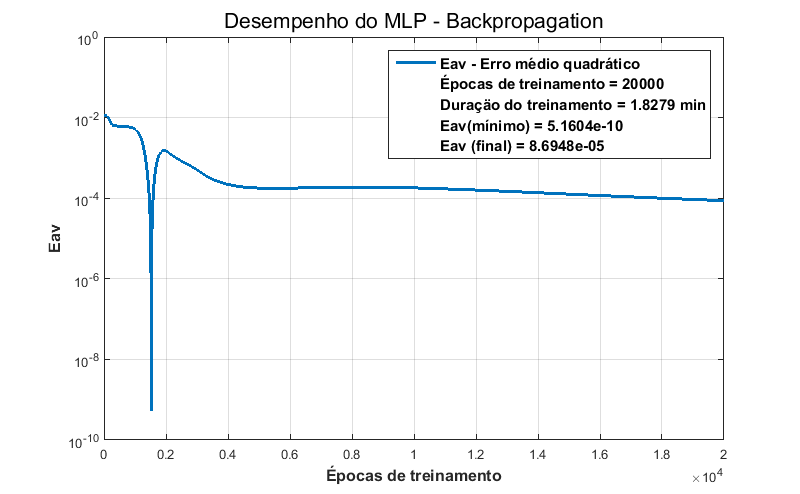
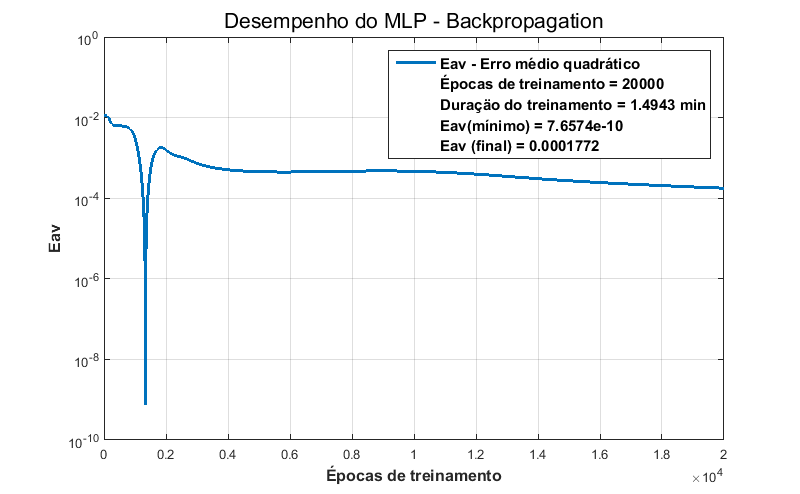
img

diff --git a/05-aprendizado_online_batch/README.md b/05-aprendizado_online_batch/README.md
@@ -49,8 +49,8 @@ Para a comparação, os algoritmos foram executados 3 vezes cadas, constando aqu
 
 |Original  | Online |
 |--|--|
-|![enter image description here](https://github.com/JoseRaimundo/mestrado_ia/blob/master/05-aprendizado_online_batch/img/mlp_original.png?raw=true)  | ![enter image description here](https://github.com/JoseRaimundo/mestrado_ia/blob/master/05-aprendizado_online_batch/img/mlp_online_treino.png?raw=true) |
-||1. PARÂMETROS DO PROJETO<br>Exemplos de Treinamento: 51<br>Exemplos de Teste: 5000<br>Taxa de aprendizado: 0.01<br>Pesos, valor médio inicial: 0.07<br>2. CONFIGURACÄO DA REDE NEURAL<br>   Número de Neurönios por Camada<br>   Entrada:      2<br>   Escondida: 15<br>   Saída:          1<br>3. TREINAMENTO<br>   Número de épocas: 20000<br>   Erro médio quadrático: 8.6948e-05<br>   Duraçäo do Treinamento: 1.8279 min<br>4. TESTE<br>   Erro absoluto máximo: 0.088139<br>   Erro médio quadrático: 0.00025574<br>   Duraçäo do Teste: 0.062 s<br>|
+|![enter image description here](https://github.com/JoseRaimundo/mestrado_ia/blob/master/05-aprendizado_online_batch/img/mlp_original.png?raw=true)  | ![enter image description here](https://github.com/JoseRaimundo/mestrado_ia/blob/master/05-aprendizado_online_batch/img/mlp_online.png?raw=true) |
+|1. PARÂMETROS DO PROJETO<br>   Exemplos de Treinamento: 51<br>   Exemplos de Teste: 5000<br>   Taxa de aprendizado: 0.01<br>   Pesos, valor médio inicial: 0.07<br>2. CONFIGURACÄO DA REDE EURAL <br>  Número de Neurönios por Camada<br>   Entrada:      2<br>   Escondida: 15<br>   Saída:          1<br>3. TREINAMENTO<br>   Número de épocas: 20000<br>   Erro médio quadrático: 0.0006475<br>   Duraçäo do Treinamento: 1.7415 min<br>4. TESTE<br>   Erro absoluto máximo: 0.17034<br>   Erro médio quadrático: 0.00045172<br> Duraçäo do Teste: 0.05 s<br> | 1. PARÄMETROS DO PROJETO<br>   Exemplos de Treinamento: 51<br>   Exemplos de Teste: 5000<br>   Taxa de aprendizado: 0.01<br>   Pesos, valor médio inicial: 0.07<br>2. CONFIGURACÄO DA REDE NEURAL<br>   Número de Neurönios por Camada<br>   Entrada:      2<br>   Escondida: 15<br>   Saída:          1<br>3. TREINAMENTO<br>   Número de épocas: 20000<br>   Erro médio quadrático: 0.0001772<br>   Duraçäo do Treinamento: 1.4943 min<br>4. TESTE<br>   Erro absoluto máximo: 0.12541<br>   Erro médio quadrático: 0.00040524<br>   Duraçäo do Teste: 0.062 s|
 
 
 
